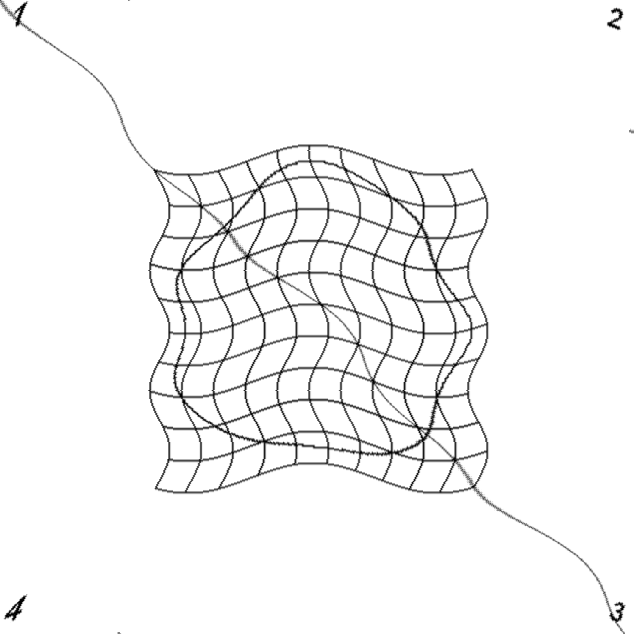
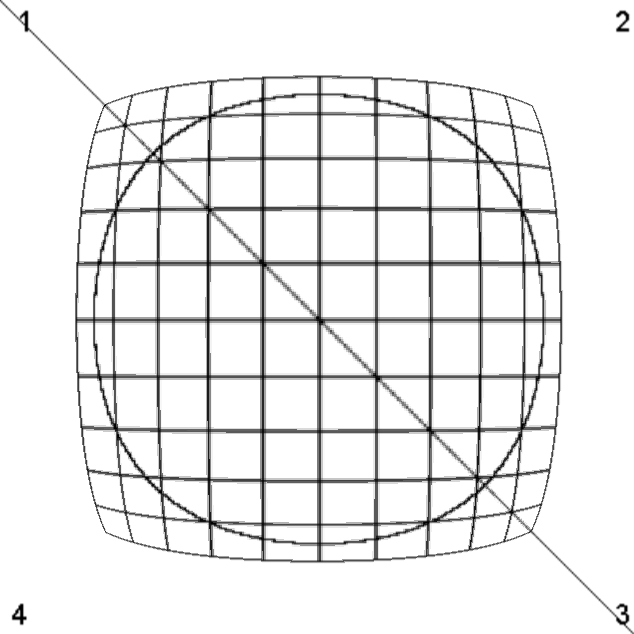
Add spherical mapping implementation

diff --git a/Assignment 5/spherical_mapping.cpp b/Assignment 5/spherical_mapping.cpp
@@ -1,0 +1,122 @@
+/* spherical_mapping.cpp
+  CSC 205 - Spring 2016
+   
+  A PNG image processor.
+  
+  B. Bird - 03/02/2016
+  Michael Reiter - 03/21/2016
+*/
+
+#include <string>
+#include <iostream>
+#include "lodepng.h"
+#include "png_canvas.h"
+#include <math.h>
+
+using namespace std;
+
+double p = 1.8;
+
+double inverse_transform_x(int x, int y, int width, int height) {
+  int xc = width/2;
+  int yc = height/2;
+
+  int dx = x - xc;
+  int dy = y - yc;
+
+  double r_max = width / 2;
+
+  double r = sqrt(pow(dx, 2.0) + pow(dy, 2.0));
+  double z = sqrt(pow(r_max, 2.0) - pow(r, 2.0));
+  double denominator = sqrt(pow(dx, 2.0) + pow(z, 2.0));
+
+  double beta = (1 - 1.0/p) * asin(dx / denominator);
+
+  if (r <= r_max) {
+    return x - (z * tan(beta));
+  } else {
+    return x;
+  }
+}
+
+
+double inverse_transform_y(int x, int y, int width, int height) {
+  int xc = width/2;
+  int yc = height/2;
+
+  int dx = x - xc;
+  int dy = y - yc;
+
+  double r_max = width / 2;
+
+  double r = sqrt(pow(dx, 2.0) + pow(dy, 2.0));
+  double z = sqrt(pow(r_max, 2.0) - pow(r, 2.0));
+  double denominator = sqrt(pow(dy, 2.0) + pow(z, 2.0));
+
+  double beta = (1 - 1.0/p) * asin(dy / denominator);
+
+  if (r <= r_max) {
+    return y - (z * tan(beta));
+  } else {
+    return y;
+  }
+}
+
+
+int check_bounds(int x, int boundary) {
+  if (x < 0 || x >= boundary) {
+    return 128;
+  } else {
+    return x;
+  }
+}
+
+
+void apply_sphere(PNG_Canvas_BW& image, float scale = 3) {
+  int width = image.get_width();
+  int height = image.get_height();
+
+  PNG_Canvas_BW output_image(width, height);
+
+  for (int x = 0; x < width; x++) {
+    for (int y = 0; y < height; y++) {
+      int x_prime = inverse_transform_x(x, y, width, height);
+      int y_prime = inverse_transform_y(x, y, width, height);
+
+      x_prime = check_bounds(x_prime, width);
+      y_prime = check_bounds(y_prime, height);
+
+      int x0 = floor(x_prime);
+      int y0 = floor(y_prime);
+      int x1 = ceil(x_prime);
+      int y1 = ceil(y_prime);
+      float xs = x_prime - x0;
+      float ys = y_prime - y0;
+      float p0 = image[x0][y0] * (1 - xs) + image[x1][y0] * xs;
+      float p1 = image[x0][y1] * (1 - xs) + image[x1][y1] * xs;
+
+      output_image[x][y] = p0 * (1 - ys) + p1 * ys;
+    }
+  }
+
+  image = output_image;
+}
+
+
+int main(int argc, char** argv) {
+  if (argc < 3) {
+    cerr << "Usage: " << argv[0] << " <input file> <output file>" << endl;
+    return 0;
+  }
+  string input_filename = argv[1];
+  string output_filename = argv[2];
+  
+  PNG_Canvas_BW canvas;
+  if (!canvas.load_image(input_filename)) {
+    cerr << "Unable to load " << input_filename << ". Exiting..." << endl;
+    return 0;
+  }
+
+  apply_sphere(canvas);
+  canvas.save_image(output_filename);
+}
